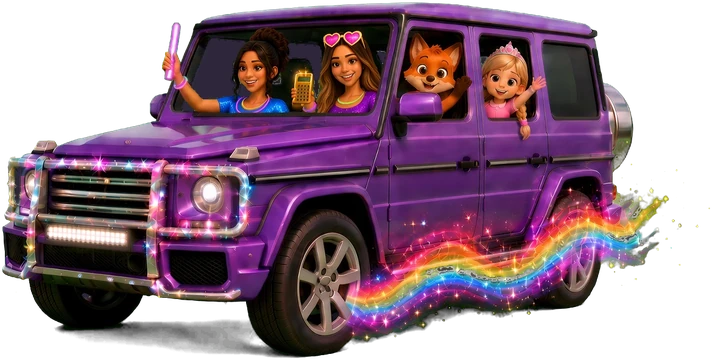
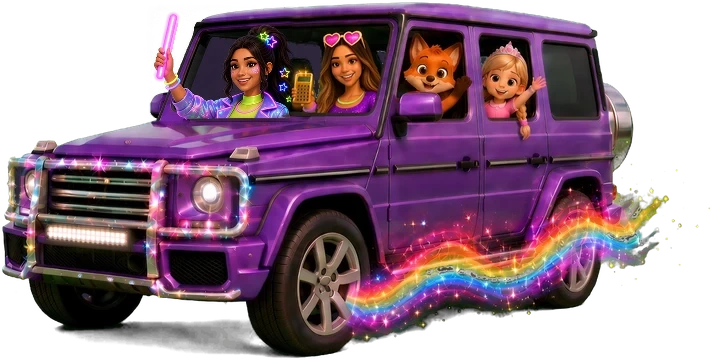
Teri rave-mama redesign art (t112u): glam LED jacket + tutu over leggings, winter glow puffer + LED beanie/earmuffs, stickers, G-wagon driver (GiGi pixel-identical); SZ updated

Changed region(s): [[0.2163, 0.0, 0.4326, 0.3361]]

diff --git a/v21/src/chars2.js b/v21/src/chars2.js
@@ -1,0 +1,244 @@
+// Juniper's Learning Park v2 - original character art: soft rounded shapes, flat warm colours,
+// saturated sparkle highlights. Every character has parts tagged for idle / talk animation.
+// v7: glossy soft-3D storybook art (art library at ../art). Characters in the library are drawn as
+// <svg class="chr"> wrappers holding an <image>, so every layout box and tap target keeps its size.
+const SART = (() => { const base = '../art/';
+  const POSES = ['idle', 'wave', 'cheer', 'think', 'point', 'princess', 'skate', 'riding', 'golf', 'ski'];
+  const ITEMS = ['moonstone', 'compass', 'spoon', 'skate', 'tee', 'lantern', 'coqui', 'sunkey', 'amulet', 'acorn', 'prism', 'torch', 'glacier', 'mirror', 'crown', 'lens', 'seed', 'chip', 'ltag', 'wings', 'taxilight', 'pearlball', 'snowglobe', 'skypass'];
+  const DEFPOSE = { juniper: 'wave' };
+  const pose = (n, p) => { p = POSES.includes(p) ? p : (DEFPOSE[n] || 'idle'); return SZ[n + '_' + p] ? p : (SZ[n + '_idle'] ? 'idle' : 'wave'); };
+  const SZ = {"teri_wave":[278,560],"teri_point":[290,560],"gigi_wave":[262,560],"gigi_point":[298,560],"bro1_idle":[200,420],"bro2_idle":[186,420],"bro3_idle":[195,420],"troll_idle":[282,350],"twister_idle":[286,350],"jamgoblin_idle":[284,350],"sneak_idle":[291,350],"slush_idle":[365,350],"jetlag_idle":[304,350],"gwagon_idle":[712,360],"juniper_tutu":[299,468],"juniper_blades":[271,468],"juniper_hightops":[282,468],"juniper_icegown":[321,468],"juniper_goldgown":[321,468],"abominable_cheer":[325,368],"abominable_idle":[280,367],"abominable_point":[273,366],"abominable_think":[229,372],"abominable_wave":[288,365],"aspen_cheer":[318,584],"aspen_idle":[246,581],"aspen_point":[268,582],"aspen_think":[233,581],"aspen_wave":[270,580],"barnacle_cheer":[317,341],"barnacle_idle":[259,340],"barnacle_point":[274,349],"barnacle_think":[232,347],"barnacle_wave":[280,349],"coqui_cheer":[340,423],"coqui_idle":[249,292],"coqui_point":[261,418],"coqui_think":[227,413],"coqui_wave":[272,425],"cucocloud_cheer":[270,215],"cucocloud_idle":[248,218],"cucocloud_point":[255,214],"cucocloud_think":[239,217],"cucocloud_wave":[250,215],"drstatic_cheer":[334,526],"drstatic_idle":[238,514],"drstatic_point":[266,512],"drstatic_think":[234,511],"drstatic_wave":[265,508],"ermine_cheer":[272,474],"ermine_idle":[257,399],"ermine_point":[263,441],"ermine_think":[242,456],"ermine_wave":[314,447],"flurry_cheer":[284,444],"flurry_idle":[235,430],"flurry_point":[261,431],"flurry_think":[230,438],"flurry_wave":[264,439],"gargoyle_cheer":[303,357],"gargoyle_idle":[256,352],"gargoyle_point":[270,368],"gargoyle_think":[251,372],"gargoyle_wave":[279,370],"glitch_cheer":[316,440],"glitch_idle":[215,433],"glitch_point":[243,432],"glitch_think":[205,430],"glitch_wave":[257,430],"goblin_cheer":[311,364],"goblin_idle":[270,340],"goblin_point":[282,339],"goblin_think":[258,338],"goblin_wave":[277,334],"gremlin_cheer":[292,436],"gremlin_idle":[289,377],"gremlin_point":[278,375],"gremlin_think":[272,363],"gremlin_wave":[268,368],"hag_cheer":[264,432],"hag_idle":[241,440],"hag_point":[263,440],"hag_think":[234,430],"hag_wave":[254,426],"icequeen_cheer":[283,446],"icequeen_idle":[266,430],"icequeen_point":[264,426],"icequeen_think":[248,428],"icequeen_wave":[266,424],"juniper_cheer":[310,453],"juniper_golf":[306,468],"juniper_idle":[274,468],"juniper_point":[288,453],"juniper_princess":[321,468],"juniper_riding":[270,468],"juniper_riding_gold":[270,468],"juniper_skate":[296,468],"juniper_ski":[310,468],"juniper_think":[254,456],"juniper_wave":[292,451],"lola_cheer":[332,389],"lola_idle":[212,399],"lola_point":[295,391],"lola_think":[222,395],"lola_wave":[278,395],"mamafox_cheer":[306,569],"mamafox_idle":[253,572],"mamafox_point":[291,579],"mamafox_think":[257,578],"mamafox_wave":[302,575],"marcus_cheer":[279,393],"marcus_idle":[254,397],"marcus_point":[278,392],"marcus_think":[218,396],"marcus_wave":[267,392],"marengo_cheer":[253,434],"marengo_idle":[299,416],"marengo_point":[265,413],"marengo_think":[252,417],"marengo_wave":[257,412],"nicolo_cheer":[336,544],"nicolo_idle":[234,541],"nicolo_point":[274,544],"nicolo_think":[207,542],"nicolo_wave":[295,538],"oscar_cheer":[314,409],"oscar_idle":[231,360],"oscar_point":[282,363],"oscar_think":[230,374],"oscar_wave":[273,366],"pearl_cheer":[326,449],"pearl_idle":[248,448],"pearl_point":[309,450],"pearl_think":[249,452],"pearl_wave":[304,449],"pickle_cheer":[304,396],"pickle_idle":[258,445],"pickle_point":[288,444],"pickle_think":[232,443],"pickle_wave":[264,447],"quinn_cheer":[327,452],"quinn_idle":[229,454],"quinn_point":[266,456],"quinn_think":[246,454],"quinn_wave":[285,453],"ratking_cheer":[303,458],"ratking_idle":[256,470],"ratking_point":[293,467],"ratking_think":[246,469],"ratking_wave":[260,462],"rocco_cheer":[289,451],"rocco_idle":[259,451],"rocco_point":[299,448],"rocco_think":[245,452],"rocco_wave":[291,450],"scramble_cheer":[293,438],"scramble_idle":[294,434],"scramble_point":[300,430],"scramble_think":[241,436],"scramble_wave":[292,435],"smoke_cheer":[275,330],"smoke_idle":[246,320],"smoke_point":[260,327],"smoke_think":[242,326],"smoke_wave":[264,330],"teddy_cheer":[266,455],"teddy_idle":[273,422],"teddy_point":[277,440],"teddy_think":[260,456],"teddy_wave":[268,441],"toulouse_cheer":[288,458],"toulouse_idle":[253,454],"toulouse_point":[271,460],"toulouse_think":[246,459],"toulouse_wave":[278,454],"weasel_cheer":[328,464],"weasel_idle":[276,454],"weasel_point":[282,476],"weasel_think":[250,498],"weasel_wave":[265,498],"weevil_cheer":[297,372],"weevil_idle":[256,399],"weevil_point":[252,399],"weevil_think":[237,394],"weevil_wave":[297,397],"winnie_cheer":[287,418],"winnie_idle":[256,410],"winnie_point":[276,410],"winnie_think":[247,416],"winnie_wave":[279,412],"witch_cheer":[289,538],"witch_idle":[258,492],"witch_point":[265,481],"witch_think":[245,478],"witch_wave":[277,480],"wolf_cheer":[303,463],"wolf_idle":[271,473],"wolf_point":[293,481],"wolf_think":[250,484],"wolf_wave":[296,480]};
+  const chr = (n, vb, o = {}) => { const p = pose(n, o.pose), z = SZ[n + '_' + p] || [300, 440]; return `<svg class="chr art chr-${o.cname || n} ${o.cls || ''}" viewBox="0 0 ${z[0]} ${z[1]}" xmlns="http://www.w3.org/2000/svg"><g class="art-bob"><image href="${base}chars/${n}_${p}.webp" width="${z[0]}" height="${z[1]}"/></g></svg>`; };
+  return { base, ITEMS, SZ, hasChr: n => !!(SZ[n + '_idle'] || SZ[n + '_wave']), hasItem: id => ITEMS.includes(id), chr, pose, ui: n => `${base}ui/${n}.webp`, bg: (w, sm = true) => `${base}bg/${w}${sm ? '_sm' : ''}.webp` }; })();
+const CHARS = (() => {
+const OL = '#3b2147';
+const p = (d, f = 'none', x = '') => `<path d="${d}" fill="${f}" ${x}/>`;
+const e = (cx, cy, rx, ry, f, x = '') => `<ellipse cx="${cx}" cy="${cy}" rx="${rx}" ry="${ry}" fill="${f}" ${x}/>`;
+const c = (cx, cy, r, f, x = '') => `<circle cx="${cx}" cy="${cy}" r="${r}" fill="${f}" ${x}/>`;
+const r = (x, y, w, h, rr, f, ex = '') => `<rect x="${x}" y="${y}" width="${w}" height="${h}" rx="${rr}" fill="${f}" ${ex}/>`;
+const g = (cls, inner, ex = '') => `<g class="${cls}" ${ex}>${inner}</g>`;
+const sheen = (cx, cy, rx, ry, rot = -20, op = 0.38) => `<ellipse cx="${cx}" cy="${cy}" rx="${rx}" ry="${ry}" fill="#fff" stroke="none" opacity="${op}" transform="rotate(${rot} ${cx} ${cy})"/>`;
+const blush = (x, y, rx = 11, ry = 7) => `<ellipse cx="${x}" cy="${y}" rx="${rx}" ry="${ry}" fill="#ff7eb6" stroke="none" opacity=".75"/>`;
+function eye(x, y, s = 1, iris = '#ff4fa3') { return `${e(x, y, 10 * s, 13 * s, '#2a1838')}<path d="M${x - 8 * s} ${y + 4 * s} Q${x} ${y + 14 * s} ${x + 8 * s} ${y + 4 * s} Q${x} ${y + 9 * s} ${x - 8 * s} ${y + 4 * s} Z" fill="${iris}" stroke="none" opacity=".9"/>${c(x - 3 * s, y - 5 * s, 4.2 * s, '#fff', 'stroke="none"')}${c(x + 3.5 * s, y + 3 * s, 1.8 * s, '#fff', 'stroke="none"')}`; }
+const eyes = (x1, x2, y, s, iris) => g('ch-eyes', eye(x1, y, s, iris) + eye(x2, y, s, iris));
+function mouth(x, y, w = 14, tongue = '#ff7aa8') {
+  const closed = `<path class="m-closed" d="M${x - w} ${y - 2} Q${x - w / 2} ${y + w * 0.75} ${x} ${y - 2} Q${x + w / 2} ${y + w * 0.75} ${x + w} ${y - 2}" fill="none" stroke-width="4.5"/>`;
+  const open = `<g class="m-open"><path d="M${x - w} ${y - 3} Q${x} ${y - 6} ${x + w} ${y - 3} Q${x + w * 0.8} ${y + w * 1.3} ${x} ${y + w * 1.35} Q${x - w * 0.8} ${y + w * 1.3} ${x - w} ${y - 3} Z" fill="#7d1d45" stroke-width="4"/><ellipse cx="${x}" cy="${y + w * 0.95}" rx="${w * 0.55}" ry="${w * 0.32}" fill="${tongue}" stroke="none"/></g>`;
+  return g('ch-mouth', closed + open); }
+const spark = (x, y, s, col = '#fff59d') => `<path class="ch-spark" d="M${x} ${y - 12 * s} Q${x + 2 * s} ${y - 2 * s} ${x + 12 * s} ${y} Q${x + 2 * s} ${y + 2 * s} ${x} ${y + 12 * s} Q${x - 2 * s} ${y + 2 * s} ${x - 12 * s} ${y} Q${x - 2 * s} ${y - 2 * s} ${x} ${y - 12 * s} Z" fill="${col}" stroke="none"/>`;
+const wrap = (name, vb, inner, extra = '', cls = '') => `<svg class="chr chr-${name} ${cls}" viewBox="${vb}" xmlns="http://www.w3.org/2000/svg" ${extra}><g stroke="${OL}" stroke-width="5" stroke-linejoin="round" stroke-linecap="round">${inner}</g></svg>`;
+// ---------------- palette ----------------
+const FOX = '#ff7a2e', FOXD = '#e2541a', CRM = '#fff1dc', EARIN = '#ffc4c9', SOCK = '#5b2b3a', TIP = '#a2381c';
+// ---------------- Juniper ----------------
+function foxHeadInner(o = {}) { let s = '';
+  // her RIGHT ear (viewer's left): straight
+  s += g('ch-earR', p('M-72 -46 C-90 -96 -84 -138 -64 -152 C-42 -128 -24 -100 -18 -76 Z', FOX) + p('M-64 -152 C-56 -142 -48 -132 -42 -122 C-52 -122 -62 -126 -72 -130 C-72 -138 -68 -146 -64 -152 Z', TIP) + p('M-60 -62 C-70 -94 -68 -116 -60 -126 C-48 -110 -38 -94 -34 -80 Z', EARIN, 'stroke="none"'));
+  // her LEFT ear (viewer's right): crooked, tip folds over and points sideways
+  s += g('ch-earL', p('M18 -78 C30 -104 50 -126 72 -126 C92 -124 110 -112 118 -96 C102 -94 88 -92 80 -88 C78 -74 74 -60 72 -46 Z', FOX) + p('M72 -126 C92 -124 110 -112 118 -96 C104 -95 90 -93 80 -88 C80 -102 78 -116 72 -126 Z', TIP) + p('M32 -78 C42 -98 56 -112 68 -112 C70 -96 66 -76 62 -60 Z', EARIN, 'stroke="none"'));
+  s += p('M-84 -30 C-88 -82 -46 -102 0 -102 C46 -102 88 -82 84 -30 C84 -8 94 4 102 10 C82 13 72 22 60 27 C40 39 20 41 0 41 C-20 41 -40 39 -60 27 C-72 22 -82 13 -102 10 C-94 4 -84 -8 -84 -30 Z', FOX);
+  s += p('M-96 9 C-72 -4 -44 -2 -26 -16 C-14 -7 -6 -5 0 -5 C6 -5 14 -7 26 -16 C44 -2 72 -4 96 9 C76 15 64 24 54 29 C36 39 18 41 0 41 C-18 41 -36 39 -54 29 C-64 24 -76 15 -96 9 Z', CRM);
+  s += p('M-10 -100 Q0 -84 10 -100', 'none', `stroke="${FOXD}" stroke-width="5"`);
+  s += sheen(-34, -80, 24, 10, -15) + sheen(40, -84, 10, 5, 15, 0.3);
+  if (o.helmet) s += p('M-88 -48 C-88 -124 88 -124 88 -48 Q0 -66 -88 -48 Z', o.helmet) + sheen(-30, -100, 26, 9, -12, 0.5) + p('M-40 -104 q40 -16 80 0', 'none');
+  s += eyes(-32, 32, -40, 1.15, '#ff4fa3');
+  s += p('M-13 -18 Q0 -25 13 -18 Q11 -6 0 -2 Q-11 -6 -13 -18 Z', '#2a1838') + c(-4, -18, 3, '#fff', 'stroke="none" opacity=".8"');
+  s += mouth(0, 6, 13);
+  s += blush(-58, -12) + blush(58, -12);
+  return s; }
+function foot(type) {
+  if (type === 'skate') return p('M-16 -6 L16 -6 L18 16 Q40 18 42 32 L42 40 L-16 40 Z', '#ffffff') + sheen(-4, 6, 6, 12, 0, 0.6) + p('M-8 4 l14 0 M-8 14 l16 0', 'none', 'stroke="#ff4fa3" stroke-width="4"') + p('M-8 40 L-8 50 M32 40 L32 50', 'none') + r(-24, 48, 72, 8, 4, '#b8c7ff') + sheen(10, 50, 24, 2, 0, 0.9);
+  if (type === 'blade') { let s = p('M-16 -6 L16 -6 L18 16 Q40 18 42 32 L42 40 L-16 40 Z', '#8e44ff') + sheen(-4, 6, 6, 12, 0, 0.45) + r(-20, 40, 64, 10, 5, '#5b5f7a');
+    [[-10, '#ff2fa0'], [14, '#26e0ff'], [38, '#c6ff3a']].forEach(([x, f]) => { s += `<g class="ch-wheel">${c(x, 64, 22, f, 'stroke="none" opacity=".35"')}${c(x, 64, 13, f)}${c(x, 64, 4, '#fff')}</g>`; }); return s; }
+  if (type === 'boot') return p('M-18 -8 L18 -8 L20 10 Q42 12 42 28 L42 32 L-18 32 Z', '#2b1d1a') + r(-20, 28, 64, 8, 3, '#120c0b') + sheen(-6, 2, 6, 8, 0, 0.4);
+  return p('M-16 -4 L16 -4 L18 10 Q40 12 40 28 L-16 28 Z', SOCK) + sheen(0, 4, 10, 4, 0, 0.3); }
+// light-up ring: gold band with a glowing gem that pulses and twinkles (animated in CSS: .ch-ring)
+function ringSvg(x, y) { return `<g class="ch-ring" transform="translate(${x} ${y})"><circle r="26" fill="#ff7ad9" opacity=".28" stroke="none" class="rg-glow"/><ellipse rx="15" ry="6" fill="none" stroke="#ffd34d" stroke-width="5"/><path d="M0 -20 L9 -9 L0 0 L-9 -9 Z" fill="#7ee8ff" stroke-width="3" class="rg-gem"/><path d="M-3 -14 L0 -17 L3 -14" stroke="#fff" stroke-width="2" fill="none"/><path d="M14 -24 l3 -8 l3 8 l8 3 l-8 3 l-3 8 l-3 -8 l-8 -3 Z" fill="#fff" stroke="none" class="rg-tw"/><path d="M-22 -10 l2 -5 l2 5 l5 2 l-5 2 l-2 5 l-2 -5 l-5 -2 Z" fill="#fff36b" stroke="none" class="rg-tw2"/></g>`; }
+function juniperInner(o = {}) { const feet = o.feet || 'shoe'; let s = o.back || '';
+  s += g('ch-tail', p('M-26 0 C-92 22 -152 -8 -168 -70 C-178 -112 -150 -136 -120 -122 C-128 -82 -100 -46 -30 -32 Z', FOX) + p('M-168 -70 C-178 -112 -150 -136 -120 -122 C-128 -106 -134 -90 -132 -76 C-146 -70 -156 -68 -168 -70 Z', CRM) + sheen(-120, -60, 26, 8, -30, 0.3));
+  s += g('ch-legs', r(-38, 6, 32, 86, 16, FOX) + r(6, 6, 32, 86, 16, FOX) + r(-38, 62, 32, 30, 12, SOCK, 'stroke="none"') + r(6, 62, 32, 30, 12, SOCK, 'stroke="none"') + r(-38, 6, 32, 86, 16, 'none') + r(6, 6, 32, 86, 16, 'none') + (feet === 'boot' ? r(-40, 38, 36, 60, 10, '#2b1d1a') + r(4, 38, 36, 60, 10, '#2b1d1a') + r(-40, 38, 36, 9, 4, '#8a5a3b') + r(4, 38, 36, 9, 4, '#8a5a3b') + sheen(-28, 62, 4, 16, 0, 0.35) + sheen(16, 62, 4, 16, 0, 0.35) : '') + `<g transform="translate(-22 96)">${foot(feet)}</g><g transform="translate(22 96)">${foot(feet)}</g>`);
+  let body = p('M-52 -8 C-58 -62 -30 -84 0 -84 C30 -84 58 -62 52 -8 C50 22 30 36 0 36 C-30 36 -50 22 -52 -8 Z', FOX) + e(0, -2, 30, 40, CRM, 'stroke="none"') + sheen(-26, -56, 14, 8, -30, 0.35);
+  const arm = (side, ang, cls) => `<g transform="translate(${side * 36} -52)"><g class="${cls}"><g transform="rotate(${ang})">` + r(side > 0 ? -2 : -70, -12, 72, 28, 14, o.sleeve || FOX) + (o.sleeve && o.cuff ? r(side > 0 ? 44 : -54, -12, 10, 28, 3, o.cuff) : '') + c(side > 0 ? 68 : -68, 2, 16, o.glove || SOCK) + (o.glove ? p(`M${side * 60} -8 l${side * 10} 0`, 'none', 'stroke-width="3"') : '') + (side > 0 && o.ring ? ringSvg(68, 2) : '') + `</g></g></g>`;
+  if (o.dress) body += o.dress;
+  if (o.golf) body += `<g class="golfclub" transform="translate(-70 0) rotate(${o.golf} 0 -30)">` + r(-6, -40, 13, 158, 6, '#c9d2ee') + r(-3, -36, 4, 150, 2, '#ffffff', 'stroke="none" opacity=".7"') + p('M-14 112 L46 108 Q58 108 58 120 L58 132 Q58 138 50 138 L-14 138 Z', '#eef2ff') + r(-11, -54, 26, 50, 9, '#ff4fa3') + p('M-11 -40 h26 M-11 -28 h26 M-11 -16 h26', 'none', 'stroke-width="3"') + `</g>` + c(-12, 142, 11, '#fff');
+  if (o.scarf) body += p('M-50 -74 Q0 -52 50 -74 L52 -54 Q0 -30 -52 -54 Z', o.scarf) + r(14, -56, 24, 58, 9, o.scarf) + sheen(-20, -64, 16, 4, 5, 0.4) + p('M20 -4 L20 6 M27 -4 L27 6 M34 -4 L34 6', 'none');
+  const arms = arm(-1, o.armL ?? -25, 'ch-armL') + arm(1, o.armR ?? 25, 'ch-armR');
+  s += g('ch-body', body + (o.bodyExtra || '') + `<g transform="translate(0 -108) scale(.92)">${g('ch-head', foxHeadInner({ helmet: o.helmet }) + (o.headExtra || ''))}</g>` + arms);
+  return s; }
+function mamaInner() { let s = '';
+  s += g('ch-tail', p('M40 70 C130 80 176 20 160 -44 C150 -80 112 -84 108 -58 C122 -16 100 38 40 42 Z', FOX) + p('M160 -44 C150 -80 112 -84 108 -58 C120 -46 138 -38 162 -34 Z', CRM));
+  s += g('ch-body', p('M-62 104 C-72 30 -44 -26 0 -30 C44 -26 72 30 62 104 Z', FOX) + p('M-26 -20 C-10 8 10 8 26 -20 C38 30 28 72 0 82 C-28 72 -38 30 -26 -20 Z', CRM) + r(-44, 40, 30, 64, 15, FOX) + r(14, 40, 30, 64, 15, FOX) + r(-44, 84, 30, 22, 10, SOCK) + r(14, 84, 30, 22, 10, SOCK) + sheen(-34, 10, 10, 26, 10, 0.3)
+    + p('M-30 -24 Q0 -6 30 -24', 'none', 'stroke="#ffd34d" stroke-width="7"') + c(0, -12, 8, '#7ee8ff') + sheen(-2, -14, 3, 2, 0, 0.9)
+    + `<g transform="translate(0 -72) scale(1.02)">${g('ch-head', mamaHead())}</g>`);
+  return s; }
+function mamaHead() { let s = '';
+  s += g('ch-earR', p('M-72 -46 C-92 -98 -84 -140 -64 -154 C-42 -128 -24 -100 -18 -76 Z', FOX) + p('M-60 -62 C-70 -94 -68 -118 -60 -128 C-48 -110 -38 -94 -34 -80 Z', EARIN, 'stroke="none"'));
+  s += g('ch-earL', p('M72 -46 C92 -98 84 -140 64 -154 C42 -128 24 -100 18 -76 Z', FOX) + p('M60 -62 C70 -94 68 -118 60 -128 C48 -110 38 -94 34 -80 Z', EARIN, 'stroke="none"'));
+  s += p('M-80 -30 C-84 -82 -44 -100 0 -100 C44 -100 84 -82 80 -30 C80 -4 90 6 96 12 C76 14 66 24 54 30 C36 42 18 46 0 48 C-18 46 -36 42 -54 30 C-66 24 -76 14 -96 12 C-90 6 -80 -4 -80 -30 Z', FOX);
+  s += p('M-90 11 C-68 -2 -42 0 -24 -14 C-12 -6 -6 -4 0 -4 C6 -4 12 -6 24 -14 C42 0 68 -2 90 11 C70 16 60 26 50 32 C32 42 16 46 0 48 C-16 46 -32 42 -50 32 C-60 26 -70 16 -90 11 Z', CRM) + sheen(-30, -78, 22, 9, -15);
+  s += g('ch-eyes', eye(-30, -38, 1, '#7ee8ff') + eye(30, -38, 1, '#7ee8ff')) + p('M-44 -56 Q-30 -64 -18 -58 M18 -58 Q30 -64 44 -56', 'none', 'stroke-width="4"');
+  s += p('M-12 -16 Q0 -23 12 -16 Q10 -5 0 -1 Q-10 -5 -12 -16 Z', '#2a1838') + mouth(0, 8, 12) + blush(-54, -10) + blush(54, -10);
+  return s; }
+// ---------------- Marcus the tortoise ----------------
+function marcusInner() { const SK = '#9be15d', SH = '#22b573', PL = '#7fe0a0'; let s = '';
+  s += g('ch-tail', p('M-120 6 Q-152 0 -160 22 Q-140 28 -118 24 Z', SK));
+  s += g('ch-legs', e(-82, 52, 26, 30, SK) + e(-30, 60, 22, 26, SK) + e(42, 60, 22, 26, SK) + e(92, 52, 26, 30, SK));
+  let sh = p('M-124 22 C-124 -88 -68 -118 0 -118 C68 -118 124 -88 124 22 Z', SH);
+  sh += p('M-38 -84 L38 -84 L60 -40 L38 4 L-38 4 L-60 -40 Z', PL) + p('M-104 -10 L-70 -64 L-60 -40 L-38 4 L-62 18 Z', PL) + p('M104 -10 L70 -64 L60 -40 L38 4 L62 18 Z', PL) + p('M-50 -104 Q0 -124 50 -104 L38 -84 L-38 -84 Z', PL);
+  sh += sheen(-50, -82, 34, 12, -25, 0.45) + c(70, -70, 6, '#fff', 'stroke="none" opacity=".7"') + r(-136, 10, 272, 26, 13, '#ffc85c') + sheen(0, 16, 110, 4, 0, 0.5);
+  s += g('ch-body', sh);
+  let hd = p('M104 -4 C128 -30 150 -46 176 -60 L200 2 C170 14 140 26 108 26 Z', SK) + e(196, -36, 52, 46, SK) + sheen(178, -64, 20, 8, -20) ;
+  hd += g('ch-eyes', eye(178, -44, 0.9, '#2fe0c8') + eye(214, -44, 0.9, '#2fe0c8')) + p('M164 -62 Q178 -70 190 -64 M202 -64 Q214 -70 226 -62', 'none', 'stroke-width="4"');
+  hd += mouth(196, -14, 12) + blush(166, -22, 9, 6) + blush(232, -24, 8, 6);
+  s += g('ch-head', hd);
+  return s; }
+// ---------------- Oscar the owl (green carnation) ----------------
+function oscarInner() { const BR = '#a2643c', BL = '#f3c98f', FD = '#fde3b8'; let s = '';
+  s += g('ch-earR', p('M-70 -96 L-92 -150 L-40 -112 Z', BR)) + g('ch-earL', p('M70 -96 L92 -150 L40 -112 Z', BR));
+  let b = p('M-92 30 C-98 -76 -52 -124 0 -124 C52 -124 98 -76 92 30 C88 108 44 140 0 140 C-44 140 -88 108 -92 30 Z', BR) + p('M-54 30 C-56 -6 -28 -18 0 -18 C28 -18 56 -6 54 30 C52 86 28 112 0 112 C-28 112 -52 86 -54 30 Z', BL);
+  b += [[-24, 20], [0, 30], [24, 20], [-14, 56], [14, 56], [0, 82]].map(([x, y]) => p(`M${x - 8} ${y} Q${x} ${y + 9} ${x + 8} ${y}`, 'none', 'stroke-width="3.5"')).join('');
+  b += sheen(-50, -80, 24, 10, -30) + p('M-26 140 l-6 14 M-14 140 l0 16 M-2 140 l6 14 M14 140 l-6 14 M26 140 l0 16 M38 140 l6 14', 'none', 'stroke="#ff9f1c" stroke-width="7"');
+  // carnation (green) on chest
+  b += `<g transform="translate(46 26)">${p('M0 14 Q4 34 -2 52', 'none', 'stroke="#2e9e4f" stroke-width="5"')}${p('M-24 0 Q-26 -20 -10 -22 Q-6 -34 8 -28 Q24 -30 24 -12 Q34 0 22 12 Q16 26 0 22 Q-16 28 -22 14 Q-34 6 -24 0 Z', '#3ddc84')}${p('M-12 -2 Q-10 -12 0 -12 Q12 -12 12 -2 Q14 8 4 10 Q-8 12 -12 -2 Z', '#b6ff7a')}${sheen(-8, -14, 8, 4, -20, 0.6)}</g>`;
+  s += g('ch-armR', p('M-90 -10 C-120 20 -118 70 -86 96 C-84 60 -80 20 -76 -6 Z', '#8a5230')) + g('ch-armL', p('M90 -10 C120 20 118 70 86 96 C84 60 80 20 76 -6 Z', '#8a5230'));
+  let f = c(-36, -64, 34, FD) + c(36, -64, 34, FD) + g('ch-eyes', eye(-36, -64, 1.6, '#ffb300') + eye(36, -64, 1.6, '#ffb300'));
+  f += g('ch-mouth', `<path class="m-closed" d="M-12 -40 L12 -40 L0 -16 Z" fill="#ff9f1c"/><g class="m-open"><path d="M-13 -42 L13 -42 L0 -30 Z" fill="#ff9f1c"/><path d="M-11 -26 L11 -26 L0 -10 Z" fill="#ff9f1c"/><path d="M-9 -30 L9 -30 L0 -24 Z" fill="#7d1d45" stroke="none"/></g>`);
+  s += g('ch-body', b + g('ch-head', f));
+  return s; }
+// ---------------- Scramble the squirrel ----------------
+function scrambleInner() { const FUR = '#d2692e', LT = '#ffd9a8', DK = '#9c4520'; let s = '';
+  s += g('ch-tail', p('M30 90 C110 100 150 30 128 -40 C110 -100 40 -120 30 -70 C20 -30 80 -20 84 20 C88 50 60 70 30 70 Z', FUR) + p('M60 -84 C90 -84 120 -60 126 -30 C110 -50 90 -60 70 -58 Z', LT, 'stroke="none"') + sheen(110, 10, 10, 30, 10, 0.3));
+  let b = p('M-60 110 C-70 40 -44 -10 0 -12 C44 -10 70 40 60 110 Z', FUR) + p('M-28 0 C-12 24 12 24 28 0 C38 40 28 84 0 92 C-28 84 -38 40 -28 0 Z', LT) + e(-34, 110, 24, 12, FUR) + e(34, 110, 24, 12, FUR);
+  b += `<g transform="translate(0 30)">${e(0, 10, 18, 22, '#c98a4b')}${p('M-20 2 Q-20 -18 0 -18 Q20 -18 20 2 Z', '#7a4a2a')}${r(-3, -28, 6, 12, 3, '#5a3520')}${sheen(-6, 6, 4, 8, 0, 0.5)}</g>` + e(-22, 34, 12, 10, FUR) + e(22, 34, 12, 10, FUR);
+  let hd = g('ch-earR', p('M-44 -92 L-58 -138 L-20 -106 Z', FUR) ) + g('ch-earL', p('M44 -92 L58 -138 L20 -106 Z', FUR) );
+  hd += p('M-60 -50 C-62 -100 -30 -116 0 -116 C30 -116 62 -100 60 -50 C60 -16 34 -2 0 -2 C-34 -2 -60 -16 -60 -50 Z', FUR) + e(0, -30, 32, 22, LT, 'stroke="none"') + sheen(-26, -96, 16, 7, -20);
+  hd += eyes(-24, 24, -62, 1, '#ffb300') + e(0, -42, 9, 6, '#2a1838') + mouth(0, -30, 10) + r(-6, -28, 12, 9, 3, '#fff', 'stroke-width="3"') + blush(-42, -40, 8, 5) + blush(42, -40, 8, 5);
+  s += g('ch-body', b + g('ch-head', hd));
+  return s; }
+// ---------------- Pearl the pigeon ----------------
+function pearlInner() { const BD = '#b3b0e6', DK = '#8d88cc'; let s = '';
+  s += g('ch-tail', p('M-110 20 L-176 -10 L-170 30 L-180 54 L-110 44 Z', DK));
+  s += g('ch-legs', p('M-20 80 L-24 112 M-24 112 l-12 6 M-24 112 l10 8 M20 80 L18 112 M18 112 l-12 6 M18 112 l12 6', 'none', 'stroke="#ff7aa8" stroke-width="6"'));
+  let b = p('M-124 30 C-120 -30 -50 -50 20 -40 C80 -30 110 10 100 50 C90 90 40 96 -20 92 C-80 88 -126 70 -124 30 Z', BD) + sheen(-50, -20, 34, 10, -8, 0.4);
+  b += g('ch-armR', p('M-80 0 C-40 -14 30 -4 50 30 C10 50 -50 50 -84 34 Z', DK) + p('M-60 20 Q-20 30 20 26 M-56 34 Q-20 42 14 38', 'none', 'stroke-width="3.5"'));
+  let hd = p('M30 -40 C40 -70 60 -78 80 -74 C108 -70 118 -40 104 -14 C96 0 70 4 50 0 Z', '#2fd6c8') + p('M44 -10 C70 -4 96 -8 104 -14 C100 4 80 16 56 14 Z', '#b86bff', 'stroke="none"');
+  hd += e(80, -96, 42, 38, BD) + sheen(66, -118, 16, 6, -20) + g('ch-eyes', eye(70, -100, 0.85, '#ff7a2e') + eye(98, -100, 0.85, '#ff7a2e'));
+  hd += g('ch-mouth', `<path class="m-closed" d="M110 -86 Q136 -82 124 -72 Q114 -70 106 -76 Z" fill="#ffb347"/><g class="m-open"><path d="M110 -90 Q138 -92 126 -82 Q116 -82 108 -84 Z" fill="#ffb347"/><path d="M108 -76 Q132 -66 120 -60 Q112 -60 106 -70 Z" fill="#ffb347"/></g>`) + c(114, -88, 3, '#fff', 'stroke="none"') + blush(56, -80, 7, 5);
+  s += g('ch-body', b + g('ch-head', hd));
+  return s; }
+// ---------------- dogs: Toulouse (black poodle), Winnie (goldendoodle), Teddy (malshie) ----------------
+const puff = (cx, cy, rx, ry, n, f, x = '') => p(ART.parts.scallop(cx, cy, rx, ry, n, 0.22), f, x);
+function dogInner(k) { const C0 = k.fur, C1 = k.fur2, FACE = k.face; let s = '';
+  s += g('ch-tail', k.pomTail ? p('M58 60 Q92 40 98 6', 'none', `stroke="${C0}" stroke-width="12"`) + puff(100, -4, 22, 22, 8, C0) + sheen(94, -12, 7, 4, -20, 0.35) : puff(84, 30, 40, 20, 8, C0, 'transform="rotate(-40 84 30)"'));
+  let b = puff(0, 52, 70, 54, 11, C0) + puff(0, 60, 40, 32, 8, C1, 'stroke="none"') + sheen(-34, 24, 18, 8, -20, 0.3);
+  b += r(-50, 80, 26, 46, 12, C0) + r(24, 80, 26, 46, 12, C0) + (k.pomFeet ? puff(-37, 124, 20, 13, 7, C0) + puff(37, 124, 20, 13, 7, C0) : e(-37, 124, 18, 10, C0) + e(37, 124, 18, 10, C0));
+  if (k.bandana) b += p('M-42 0 Q0 18 42 0 L4 44 Q0 48 -4 44 Z', k.bandana) + c(-14, 10, 3, '#fff', 'stroke="none"') + c(10, 14, 3, '#fff', 'stroke="none"') + c(0, 28, 3, '#fff', 'stroke="none"');
+  if (k.collar) b += p('M-40 2 Q0 22 40 2', 'none', `stroke="${k.collar}" stroke-width="10"`) + c(0, 18, 8, '#ffd34d') + sheen(-2, 16, 3, 2, 0, 0.9);
+  let hd = g('ch-earR', puff(-62, -36, 26, 46, 9, k.ear || C0)) + g('ch-earL', puff(62, -36, 26, 46, 9, k.ear || C0));
+  hd += puff(0, -60, 60, 54, 12, C0) + (k.topknot ? puff(0, -112, 30, 22, 8, C0) : '') + e(0, -40, 40, 36, FACE) + sheen(-24, -92, 16, 6, -20, 0.35);
+  if (k.bow) hd += p('M0 -126 L-26 -142 L-24 -114 Z M0 -126 L26 -142 L24 -114 Z', k.bow) + c(0, -126, 7, '#ff2fa0');
+  const ir = k.iris || '#7ee8ff'; hd += k.eyeRing ? c(-20, -52, 15, '#5d5885', 'stroke="none"') + c(20, -52, 15, '#5d5885', 'stroke="none"') : '';
+  hd += eyes(-20, 20, -52, 0.95, ir) + e(0, -30, 11, 8, '#1b1028') + sheen(-3, -32, 3, 2, 0, 0.8) + mouth(0, -18, 11) + blush(-34, -28, 8, 5) + blush(34, -28, 8, 5);
+  s += g('ch-body', b + g('ch-head', hd));
+  return s; }
+const TOULOUSE = { fur: '#2b2740', fur2: '#3f3a5e', face: '#47426a', ear: '#2b2740', bandana: '#e53935', pomTail: true, pomFeet: true, topknot: true, iris: '#c98a3a' }; // Toulouse is a BOY: red bandana, no pink
+const WINNIE = { fur: '#f2ae48', fur2: '#ffd27a', face: '#ffd99a', ear: '#e39a34', collar: '#26c6ff', iris: '#ff7a2e' };
+const TEDDY = { fur: '#fffaf2', fur2: '#f4ece0', face: '#fffdf8', ear: '#f0d2a8', bow: '#ff7eb6', iris: '#7ee8ff', topknot: true };
+// ---------------- Marengo the horse ----------------
+function marengoInner() { const H = '#b4582e', HD = '#8a3d1e', M = '#3a2030'; let s = '';
+  s += g('ch-tail', p('M-150 -40 C-200 -20 -210 60 -186 120 C-170 80 -160 30 -140 0 Z', M) + sheen(-178, 40, 5, 26, 10, 0.25));
+  s += g('ch-legs', r(-130, 30, 30, 110, 14, H) + r(-84, 34, 30, 106, 14, HD) + r(50, 34, 30, 106, 14, HD) + r(96, 30, 30, 110, 14, H) + [-130, -84, 50, 96].map(x => r(x - 2, 128, 34, 18, 7, '#2a1838')).join(''));
+  let b = p('M-160 -40 C-164 -96 -100 -110 -20 -108 C60 -108 120 -100 140 -60 C150 -20 140 40 80 50 C20 58 -80 58 -130 46 C-160 36 -158 0 -160 -40 Z', H) + sheen(-80, -86, 50, 12, -4, 0.35);
+  let hd = p('M90 -80 C110 -150 150 -196 196 -190 C226 -186 252 -150 262 -106 C268 -84 252 -70 232 -76 C210 -84 196 -96 180 -80 C160 -40 120 -40 100 -50 Z', H);
+  hd += g('ch-earR', p('M168 -182 L174 -224 L196 -188 Z', H)) + g('ch-earL', p('M196 -188 L214 -222 L222 -180 Z', H));
+  hd += p('M200 -186 Q220 -150 244 -110 Q232 -104 226 -112 Q206 -148 190 -182 Z', '#fff', 'stroke="none"');
+  hd += g('ch-mane', p('M150 -186 C120 -170 96 -130 84 -80 C70 -40 60 -20 40 -10 C80 -30 110 -60 130 -100 C140 -130 160 -160 176 -178 Z', M) + sheen(120, -130, 5, 26, 30, 0.25));
+  hd += g('ch-eyes', eye(196, -144, 0.95, '#ffb300')) + e(250, -96, 6, 4, '#2a1838') + mouth(232, -80, 10) + blush(214, -110, 9, 6) + sheen(176, -172, 14, 5, -30, 0.4);
+  s += g('ch-body', b + g('ch-head', hd));
+  return s; }
+// ---------------- Old Nicolò ----------------
+function nicoloInner() { const SKN = '#ffcfab'; let s = '';
+  let b = p('M-70 220 C-80 120 -64 70 0 64 C64 70 80 120 70 220 Z', '#3f7be0') + p('M-44 90 L44 90 L50 220 L-50 220 Z', '#fff') + p('M-44 90 Q0 110 44 90', 'none') + r(-26, 140, 52, 30, 8, '#ffe1ec') + sheen(-56, 120, 8, 30, 8, 0.3);
+  b += g('ch-armR', r(-106, 90, 36, 90, 18, '#3f7be0') + c(-88, 186, 16, SKN)) + g('ch-armL', `<g transform="rotate(-30 88 96)">${r(70, 90, 36, 90, 18, '#3f7be0')}${c(88, 186, 16, SKN)}</g>` + `<g transform="translate(150 150)">${p('M-22 -20 L22 -20 L18 18 Q0 26 -18 18 Z', '#fff')}${p('M22 -10 Q36 -8 34 4 Q32 12 20 10', 'none')}${p('M-8 -32 q6 -8 0 -16 M6 -32 q6 -8 0 -16', 'none', 'stroke="#c9b8ff" stroke-width="4"')}</g>`);
+  let hd = e(0, 0, 56, 62, SKN) + c(-58, 6, 12, SKN) + c(58, 6, 12, SKN);
+  hd += p('M-58 -4 C-70 -40 -50 -40 -46 -20 M58 -4 C70 -40 50 -40 46 -20', '#e8e8f2', 'stroke-width="4"');
+  hd += p('M-62 -26 C-60 -70 60 -70 62 -26 Q0 -42 -62 -26 Z', '#4b5f9c') + p('M-60 -28 Q0 -44 74 -22 L70 -12 Q0 -30 -60 -18 Z', '#3b4b80') + sheen(-24, -54, 22, 6, -6, 0.4);
+  hd += p('M-34 -14 Q-22 -20 -10 -14 M10 -14 Q22 -20 34 -14', 'none', 'stroke="#e8e8f2" stroke-width="6"') + g('ch-eyes', eye(-22, -2, 0.7, '#7ee8ff') + eye(22, -2, 0.7, '#7ee8ff'));
+  hd += e(0, 14, 10, 9, '#f2a07a') + mouth(0, 40, 10) + p('M-40 28 Q-20 16 0 24 Q20 16 40 28 Q30 40 14 34 Q0 30 -14 34 Q-30 40 -40 28 Z', '#f4f4fb') + blush(-36, 16, 8, 5) + blush(36, 16, 8, 5);
+  s += g('ch-body', b + g('ch-head', hd));
+  return s; }
+// ---------------- Coquí ----------------
+function coquiInner() { const F = '#d98b4a', L = '#ffd3a1'; let s = '';
+  let b = e(0, 40, 90, 64, F) + e(0, 56, 56, 38, L, 'stroke="none"') + e(-74, 92, 34, 14, F) + e(74, 92, 34, 14, F) + sheen(-40, 10, 22, 8, -20);
+  let hd = c(-48, -24, 30, F) + c(48, -24, 30, F) + g('ch-eyes', eye(-48, -26, 1.3, '#3ddc84') + eye(48, -26, 1.3, '#3ddc84')) + mouth(0, 30, 22) + blush(-56, 18, 10, 6) + blush(56, 18, 10, 6);
+  s += g('ch-body', b + g('ch-head', hd));
+  return s; }
+// ---------------- world friends ----------------
+function beak(x, y, col = '#f3e7c9') { // lower beak that drops open when talking
+  const closed = `<path class="m-closed" d="M${x - 11} ${y} Q${x} ${y + 9} ${x + 11} ${y} Q${x + 4} ${y + 13} ${x} ${y + 15} Q${x - 4} ${y + 13} ${x - 11} ${y} Z" fill="${col}"/>`;
+  const open = `<g class="m-open"><path d="M${x - 12} ${y - 2} Q${x} ${y + 4} ${x + 12} ${y - 2} Q${x + 8} ${y + 14} ${x} ${y + 16} Q${x - 8} ${y + 14} ${x - 12} ${y - 2} Z" fill="#7d1d45"/><path d="M${x - 10} ${y + 8} Q${x} ${y + 15} ${x + 10} ${y + 8} Q${x + 4} ${y + 22} ${x} ${y + 24} Q${x - 4} ${y + 22} ${x - 10} ${y + 8} Z" fill="${col}"/></g>`;
+  return g('ch-mouth', closed + open); }
+function lolaInner() { const G1 = '#33cf5c', G2 = '#9bf07e', BL = '#2a7cff', RD = '#ff3b4a'; let s = '';
+  s += g('ch-tail', p('M-26 88 L-46 168 L-8 142 L0 176 L14 140 L46 164 L26 88 Z', G1) + p('M-46 168 L-8 142 L0 176 L14 140 L46 164 L36 140 L-36 142 Z', BL, 'stroke="none"'));
+  let b = p('M-56 104 C-76 40 -64 -36 0 -46 C64 -36 76 40 56 104 Q0 118 -56 104 Z', G1) + p('M-30 0 C-14 -10 14 -10 30 0 C40 40 30 86 0 96 C-30 86 -40 40 -30 0 Z', G2, 'stroke="none"') + sheen(-30, 10, 10, 26, 10, 0.3);
+  b += p('M-26 104 l-8 18 M-26 104 l4 20 M26 104 l8 18 M26 104 l-4 20', 'none', 'stroke="#ff8f6b" stroke-width="7"');
+  b += g('ch-armL', p('M-46 -14 C-92 6 -94 70 -60 104 C-56 64 -50 24 -46 -14 Z', G1) + p('M-80 60 C-86 80 -74 96 -60 104 C-62 86 -64 70 -66 56 Z', BL, 'stroke="none"'));
+  b += g('ch-armR', p('M46 -14 C92 6 94 70 60 104 C56 64 50 24 46 -14 Z', G1) + p('M80 60 C86 80 74 96 60 104 C62 86 64 70 66 56 Z', BL, 'stroke="none"'));
+  let hd = p('M-12 -150 Q-4 -176 8 -186 Q8 -168 4 -150 Z M4 -150 Q18 -172 34 -176 Q26 -160 16 -146 Z', G1) + c(0, -96, 60, G1) + sheen(-26, -132, 18, 8, -25);
+  hd += p('M-30 -118 Q0 -136 30 -118 Q24 -104 0 -102 Q-24 -104 -30 -118 Z', RD) + c(-28, -92, 19, '#fff') + c(28, -92, 19, '#fff') + g('ch-eyes', eye(-28, -92, 0.85, '#ffb300') + eye(28, -92, 0.85, '#ffb300'));
+  hd += p('M-16 -82 Q0 -94 16 -82 Q14 -62 2 -52 Q-6 -64 -16 -82 Z', '#f3e7c9') + beak(0, -60) + blush(-44, -70, 9, 6) + blush(44, -70, 9, 6);
+  s += g('ch-body', b + g('ch-head', hd));
+  return s + spark(-96, -150, 0.9, '#9bf07e') + spark(100, -40, 0.7, '#7ee8ff'); }
+function roccoInner() { let s = scrambleInner().split('#d2692e').join('#8f95ab').split('#ffd9a8').join('#f4f1fa').split('#9c4520').join('#5d6274');
+  const cap = p('M-38 -100 Q-36 -132 0 -134 Q36 -132 38 -100 Q0 -110 -38 -100 Z', '#2a7cff') + p('M-4 -104 Q40 -116 66 -100 Q42 -92 -4 -98 Z', '#1d58c4') + c(0, -134, 6, '#ffd93b') + sheen(-16, -122, 10, 4, -20, 0.5);
+  s = s.slice(0, -8) + cap + '</g></g>';
+  return s + spark(110, -140, 0.8, '#ffd93b'); }
+function flurryInner() { const W = '#f8f9ff', SH = '#dfe6ff', PK = '#ffb3d1', GR = '#9aa3bd'; let s = '';
+  s += g('ch-tail', c(-62, 70, 22, W) + sheen(-68, 62, 8, 4));
+  let b = p('M-56 112 C-70 40 -48 -24 0 -26 C48 -24 70 40 56 112 Q0 124 -56 112 Z', W) + p('M-26 10 C-10 0 10 0 26 10 C36 50 28 92 0 100 C-28 92 -36 50 -26 10 Z', SH, 'stroke="none"');
+  b += e(-36, 116, 34, 14, W) + e(36, 116, 34, 14, W) + e(-60, 50, 14, 24, W) + e(60, 50, 14, 24, W);
+  b += p('M-44 -18 Q0 6 44 -18 L46 2 Q0 26 -46 2 Z', '#22c3c9') + p('M20 0 L30 50 L48 46 L36 -2 Z', '#22c3c9') + p('M24 18 L42 14 M27 32 L45 28', 'none', 'stroke="#fff" stroke-width="5"');
+  let hd = g('ch-earR', p('M-40 -110 C-62 -170 -60 -230 -34 -236 C-10 -230 -12 -170 -20 -112 Z', W) + p('M-34 -120 C-46 -170 -46 -210 -34 -220 C-24 -210 -24 -170 -28 -122 Z', PK, 'stroke="none"') + p('M-46 -214 C-44 -230 -26 -236 -24 -222 Q-36 -218 -46 -214 Z', GR, 'stroke="none"'));
+  hd += g('ch-earL', p('M40 -110 C62 -170 60 -230 34 -236 C10 -230 12 -170 20 -112 Z', W) + p('M34 -120 C46 -170 46 -210 34 -220 C24 -210 24 -170 28 -122 Z', PK, 'stroke="none"') + p('M46 -214 C44 -230 26 -236 24 -222 Q36 -218 46 -214 Z', GR, 'stroke="none"'));
+  hd += p('M-62 -66 C-64 -110 -34 -132 0 -132 C34 -132 64 -110 62 -66 C60 -34 34 -20 0 -20 C-34 -20 -60 -34 -62 -66 Z', W) + sheen(-28, -112, 16, 7, -20);
+  hd += p('M-60 -104 Q0 -124 60 -104', 'none', 'stroke="#9b5cff" stroke-width="10"') + r(-46, -124, 40, 26, 12, '#7ee8ff') + r(6, -124, 40, 26, 12, '#7ee8ff') + sheen(-34, -116, 8, 4, -20, 0.7) + sheen(18, -116, 8, 4, -20, 0.7);
+  hd += eyes(-24, 24, -72, 1, '#7ee8ff') + e(0, -52, 9, 6, PK) + mouth(0, -42, 10) + blush(-44, -50, 9, 6) + blush(44, -50, 9, 6);
+  s += g('ch-body', b + g('ch-head', hd));
+  return s + spark(-90, -40, 0.8, '#ffffff') + spark(96, -150, 0.9, '#cfe9ff'); }
+function quinnInner() { const BG = '#8b9cc0', DK = '#5e6d93', CR = '#f6e3bd', BR = '#b9773f'; let s = '';
+  s += g('ch-tail', p('M-84 30 L-130 10 L-120 44 Z', DK));
+  let b = e(0, 30, 92, 80, BG) + p('M-60 40 C-40 100 40 100 60 40 C40 70 -40 70 -60 40 Z', CR, 'stroke="none"');
+  [[-30, 66], [0, 76], [30, 66], [-14, 90], [16, 90]].forEach(([x, y]) => { b += p(`M${x - 8} ${y} Q${x} ${y + 8} ${x + 8} ${y}`, 'none', `stroke="${BR}" stroke-width="3.5"`); });
+  b += p('M-20 106 l-6 26 M20 106 l6 26', 'none', 'stroke="#ff8f6b" stroke-width="7"') + sheen(-40, -10, 22, 9, -20);
+  b += g('ch-armR', p('M30 -10 C90 0 100 60 70 90 C60 50 40 20 30 -10 Z', DK) + p('M56 30 Q74 50 70 76 M44 20 Q62 40 60 64', 'none', 'stroke="#fff" stroke-width="3.5" opacity=".7"'));
+  let hd = g('ch-earL', p('M2 -124 C-4 -156 14 -190 40 -186 C52 -184 52 -170 40 -168 C26 -166 18 -150 16 -124 Z', '#2a1838'));
+  hd += c(0, -80, 54, BG) + sheen(-24, -112, 16, 7, -20) + p('M-34 -76 Q0 -26 34 -76 Q24 -36 0 -30 Q-24 -36 -34 -76 Z', '#2a1838') + p('M-40 -78 Q0 -24 40 -78', 'none', 'stroke="#fff" stroke-width="6"') + p('M-44 -100 Q-24 -110 -8 -102 M8 -102 Q24 -110 44 -100', 'none', 'stroke="#fff" stroke-width="6"');
+  hd += g('ch-eyes', eye(-22, -86, 0.85, '#ffb300') + eye(22, -86, 0.85, '#ffb300')) + p('M-10 -70 Q0 -78 10 -70 Q4 -62 0 -60 Q-4 -62 -10 -70 Z', '#3b2147') + beak(0, -62, '#3b2147') + blush(-40, -66, 8, 5) + blush(40, -66, 8, 5);
+  hd += r(-30, -134, 60, 16, 8, '#ff3fa4') + c(-12, -126, 9, '#7ee8ff') + c(12, -126, 9, '#7ee8ff');
+  s += g('ch-body', b + g('ch-head', hd));
+  return s + spark(-100, -120, 0.8, '#ffd93b') + spark(110, -20, 0.7, '#7ee8ff'); }
+// ---------------- registry ----------------
+const DEF = {
+  juniper: ['-200 -330 400 520', o => juniperInner(o)],
+  juniperhead: ['-128 -170 256 230', () => g('ch-head', foxHeadInner())],
+  mamafox: ['-110 -240 290 360', () => mamaInner()],
+  marcus: ['-180 -130 450 230', () => marcusInner()],
+  oscar: ['-135 -165 270 340', () => oscarInner()],
+  scramble: ['-110 -165 270 300', () => scrambleInner()],
+  pearl: ['-190 -150 340 280', () => pearlInner()],
+  toulouse: ['-110 -160 240 300', () => dogInner(TOULOUSE)],
+  winnie: ['-110 -130 240 270', () => dogInner(WINNIE)],
+  teddy: ['-110 -160 240 300', () => dogInner(TEDDY)],
+  marengo: ['-215 -235 490 395', () => marengoInner()],
+  nicolo: ['-130 -80 300 310', () => nicoloInner()],
+  coqui: ['-130 -70 260 190', () => coquiInner()],
+  lola: ['-125 -200 250 385', () => lolaInner()],
+  rocco: ['-110 -165 270 300', () => roccoInner()],
+  flurry: ['-120 -250 240 390', () => flurryInner()],
+  quinn: ['-140 -200 280 340', () => quinnInner()],
+};
+//@@CHARS3
+DEF.horse = DEF.marengo; DEF.owl = DEF.oscar; DEF.squirrel = DEF.scramble; DEF.pigeon = DEF.pearl; DEF.tortoise = DEF.marcus; DEF.fox = DEF.juniper; DEF.foxhead = DEF.juniperhead;
+function svg(name, o = {}, extra = '') { const d = DEF[name]; if (!d) return null; return wrap(name, o.vb || d[0], d[1](o) + (o.after || ''), extra, o.cls || ''); }
+function svgArt(name, o = {}, extra = '') { const d = DEF[name]; const an = SART.hasChr(name) ? name : /^v/.test(name) && SART.hasChr(name.slice(1)) ? name.slice(1) : null; if (an && !o.raw && !o.form) return SART.chr(an, o.vb || (d ? d[0] : '-200 -330 400 520'), Object.assign({}, o, { cname: name })); return svg(name, o, extra); }
+return { svg: svgArt, raw: svg, has: n => !!DEF[n], DEF, foxHeadInner, juniperInner, spark, sheen, OL, FOX, CRM };
+})();

diff --git a/v21/src/skate21.js b/v21/src/skate21.js
@@ -2,7 +2,7 @@
 // in Vail, New York and San Jose, then to the dream rinks of the world. Everyone wears winter gear here (art/chars/w<name>_*).
 // State lives in ST.sk (created lazily, merge-only). Nothing else in ST is reset or rewritten. ----------
 const SK21 = (() => {
-  const SZ21 = {"valentina_cheer":[341,560],"valentina_idle":[234,560],"valentina_wave":[301,560],"nikko_cheer":[343,560],"nikko_idle":[250,560],"nikko_wave":[282,560],"landen_cheer":[351,560],"landen_point":[270,560],"landen_wave":[288,560],"olivia_cheer":[343,560],"olivia_idle":[314,560],"olivia_wave":[293,560],"sofia_cheer":[354,560],"sofia_idle":[274,560],"sofia_wave":[314,560],"waspen_cheer":[349,560],"waspen_idle":[351,560],"waspen_wave":[297,560],"wjuniper_cheer":[373,560],"wjuniper_wave":[332,560],"wmamafox_cheer":[314,560],"wmamafox_point":[312,560],"wmamafox_wave":[306,560],"wteri_cheer":[338,560],"wteri_idle":[201,560],"wteri_wave":[263,560],"wgigi_cheer":[326,560],"wgigi_point":[214,560],"wgigi_wave":[248,560],"wteddy_cheer":[385,545],"wteddy_idle":[351,553],"wteddy_wave":[360,560],"wtoulouse_cheer":[354,560],"wtoulouse_idle":[283,560],"wtoulouse_wave":[321,560],"wwinnie_cheer":[430,528],"wwinnie_idle":[346,541],"wwinnie_wave":[359,560],"wscramble_cheer":[385,560],"wscramble_idle":[306,560],"wscramble_wave":[362,560],"wpearl_cheer":[424,560],"wpearl_idle":[302,560],"wpearl_wave":[394,560],"wnicolo_cheer":[386,560],"wnicolo_idle":[333,560],"wnicolo_wave":[349,560],"wmarcus_idle":[304,560],"wmarcus_think":[261,560],"wmarcus_wave":[352,560],"woscar_idle":[390,473],"woscar_point":[414,471],"woscar_wave":[436,468],"wbro_idle":[240,560],"wbro_point":[271,560],"wbro_wave":[283,560],"wobble_cheer":[323,469],"wobble_idle":[260,465],"wobble_point":[266,470],"wobble_think":[247,470],"wobble_wave":[297,468],"bumpy_cheer":[312,470],"bumpy_idle":[291,470],"bumpy_point":[274,470],"bumpy_think":[247,470],"bumpy_wave":[273,470],"fog_cheer":[301,470],"fog_idle":[248,411],"fog_point":[268,430],"fog_think":[232,437],"fog_wave":[268,427],"chomp_cheer":[314,470],"chomp_idle":[246,470],"chomp_point":[257,470],"chomp_think":[229,470],"chomp_wave":[249,470],"aurora_cheer":[279,470],"aurora_idle":[221,470],"aurora_point":[235,470],"aurora_think":[191,470],"aurora_wave":[230,470]};
+  const SZ21 = {"valentina_cheer":[341,560],"valentina_idle":[234,560],"valentina_wave":[301,560],"nikko_cheer":[343,560],"nikko_idle":[250,560],"nikko_wave":[282,560],"landen_cheer":[351,560],"landen_point":[270,560],"landen_wave":[288,560],"olivia_cheer":[343,560],"olivia_idle":[314,560],"olivia_wave":[293,560],"sofia_cheer":[354,560],"sofia_idle":[274,560],"sofia_wave":[314,560],"waspen_cheer":[349,560],"waspen_idle":[351,560],"waspen_wave":[297,560],"wjuniper_cheer":[373,560],"wjuniper_wave":[332,560],"wmamafox_cheer":[314,560],"wmamafox_point":[312,560],"wmamafox_wave":[306,560],"wteri_cheer":[316,560],"wteri_idle":[205,560],"wteri_wave":[297,560],"wgigi_cheer":[326,560],"wgigi_point":[214,560],"wgigi_wave":[248,560],"wteddy_cheer":[385,545],"wteddy_idle":[351,553],"wteddy_wave":[360,560],"wtoulouse_cheer":[354,560],"wtoulouse_idle":[283,560],"wtoulouse_wave":[321,560],"wwinnie_cheer":[430,528],"wwinnie_idle":[346,541],"wwinnie_wave":[359,560],"wscramble_cheer":[385,560],"wscramble_idle":[306,560],"wscramble_wave":[362,560],"wpearl_cheer":[424,560],"wpearl_idle":[302,560],"wpearl_wave":[394,560],"wnicolo_cheer":[386,560],"wnicolo_idle":[333,560],"wnicolo_wave":[349,560],"wmarcus_idle":[304,560],"wmarcus_think":[261,560],"wmarcus_wave":[352,560],"woscar_idle":[390,473],"woscar_point":[414,471],"woscar_wave":[436,468],"wbro_idle":[240,560],"wbro_point":[271,560],"wbro_wave":[283,560],"wobble_cheer":[323,469],"wobble_idle":[260,465],"wobble_point":[266,470],"wobble_think":[247,470],"wobble_wave":[297,468],"bumpy_cheer":[312,470],"bumpy_idle":[291,470],"bumpy_point":[274,470],"bumpy_think":[247,470],"bumpy_wave":[273,470],"fog_cheer":[301,470],"fog_idle":[248,411],"fog_point":[268,430],"fog_think":[232,437],"fog_wave":[268,427],"chomp_cheer":[314,470],"chomp_idle":[246,470],"chomp_point":[257,470],"chomp_think":[229,470],"chomp_wave":[249,470],"aurora_cheer":[279,470],"aurora_idle":[221,470],"aurora_point":[235,470],"aurora_think":[191,470],"aurora_wave":[230,470]};
   Object.assign(SART.SZ, SZ21);
   const RLC = ['sksilver', 'skstar', 'skwave', 'skmaple', 'skaurora'];
   RLC.forEach(i => { if (!SART.ITEMS.includes(i)) SART.ITEMS.push(i); });

diff --git a/v21/teri22/tools/gwagon_comp.py b/v21/teri22/tools/gwagon_comp.py
@@ -1,0 +1,49 @@
+# Composite only the new Teri (driver) from the regenerated G-wagon onto the original
+# cutout, so GiGi, the fox, Juniper, car and trail stay pixel-identical.
+import cv2, numpy as np, sys
+from PIL import Image
+D='/workspace/wt21/v21/teri22/'
+orig=np.array(Image.open(D+'before/gwagon_idle.webp').convert('RGBA'))
+ref=cv2.cvtColor(np.array(Image.open(D+'ref/gwagon_idle.png').convert('RGB')),cv2.COLOR_RGB2BGR)
+gen=cv2.imread(D+'gen/gwagon_idle.jpg')
+# register gen -> ref on regions excluding the driver (car body etc)
+o=cv2.ORB_create(6000)
+m1=np.full(ref.shape[:2],255,np.uint8); m1[:130,140:300]=0
+k1,d1=o.detectAndCompute(cv2.cvtColor(ref,cv2.COLOR_BGR2GRAY),m1)
+k2,d2=o.detectAndCompute(cv2.cvtColor(gen,cv2.COLOR_BGR2GRAY),None)
+bf=cv2.BFMatcher(cv2.NORM_HAMMING,crossCheck=True)
+ms=sorted(bf.match(d2,d1),key=lambda m:m.distance)[:800]
+src=np.float32([k2[m.queryIdx].pt for m in ms]); dst=np.float32([k1[m.trainIdx].pt for m in ms])
+M,inl=cv2.estimateAffinePartial2D(src,dst,ransacReprojThreshold=3)
+print('affine',M.round(3).tolist(),'inliers',int(inl.sum()))
+H,W=ref.shape[:2]
+wg=cv2.warpAffine(gen,M,(W,H),flags=cv2.INTER_LANCZOS4,borderValue=(255,255,255))
+cv2.imwrite('/tmp/gw_warp.png',wg)
+# mask: driver region polygon (window left side), feathered
+x0,y0,x1,y1=[int(v) for v in sys.argv[1:5]] if len(sys.argv)>4 else (150,8,292,122)
+mask=np.zeros((H,W),np.float32); mask[y0:y1,x0:x1]=1
+mask=cv2.GaussianBlur(mask,(0,0),3)
+out=orig.copy().astype(np.float32)
+wgr=cv2.cvtColor(wg,cv2.COLOR_BGR2RGB).astype(np.float32)
+for c in range(3): out[...,c]=out[...,c]*(1-mask)+wgr[...,c]*mask
+# alpha: keep original alpha except where glow stick extends above roof -> use whiteness of warped gen
+wa=(255-wgr.min(axis=2)); wa=np.clip(wa*3,0,255)
+# inside the mask, alpha comes from the generated image (white bg -> transparent); un-blend white from colors
+a=wa/255.0
+for c in range(3):
+    dec=np.where(a>0.02,(wgr[...,c]-255*(1-a))/np.maximum(a,0.02),wgr[...,c])
+    out[...,c]=orig[...,c]*(1-mask)+np.clip(dec,0,255)*mask
+# solid where the original car was solid and gen is not white; fill enclosed holes (glow-stick white core)
+wa=np.where((orig[...,3]>200)&(wa>60),255,wa)
+cl=cv2.morphologyEx(wa.astype(np.uint8),cv2.MORPH_CLOSE,cv2.getStructuringElement(cv2.MORPH_ELLIPSE,(7,7))).astype(np.float32)
+cl[62:,:]=wa[62:,:]
+filled=(cl>wa+30)
+wa=np.maximum(wa,cl)
+for c in range(3): out[...,c]=np.where(filled&(mask>0.5),wgr[...,c],out[...,c])
+b=(wa>40).astype(np.uint8); ff=b.copy(); fm=np.zeros((H+2,W+2),np.uint8); cv2.floodFill(ff,fm,(0,0),2)
+hole=(ff==0)
+wa=np.where(hole,255,wa)
+for c in range(3): out[...,c]=np.where(hole&(mask>0.5),wgr[...,c],out[...,c])
+out[...,3]=orig[...,3]*(1-mask)+wa*mask
+Image.fromarray(out.clip(0,255).astype(np.uint8)).save('/tmp/gw_comp.png')
+Image.fromarray(out.clip(0,255).astype(np.uint8)).save(D+'gen/gwagon_comp.webp',quality=92)
